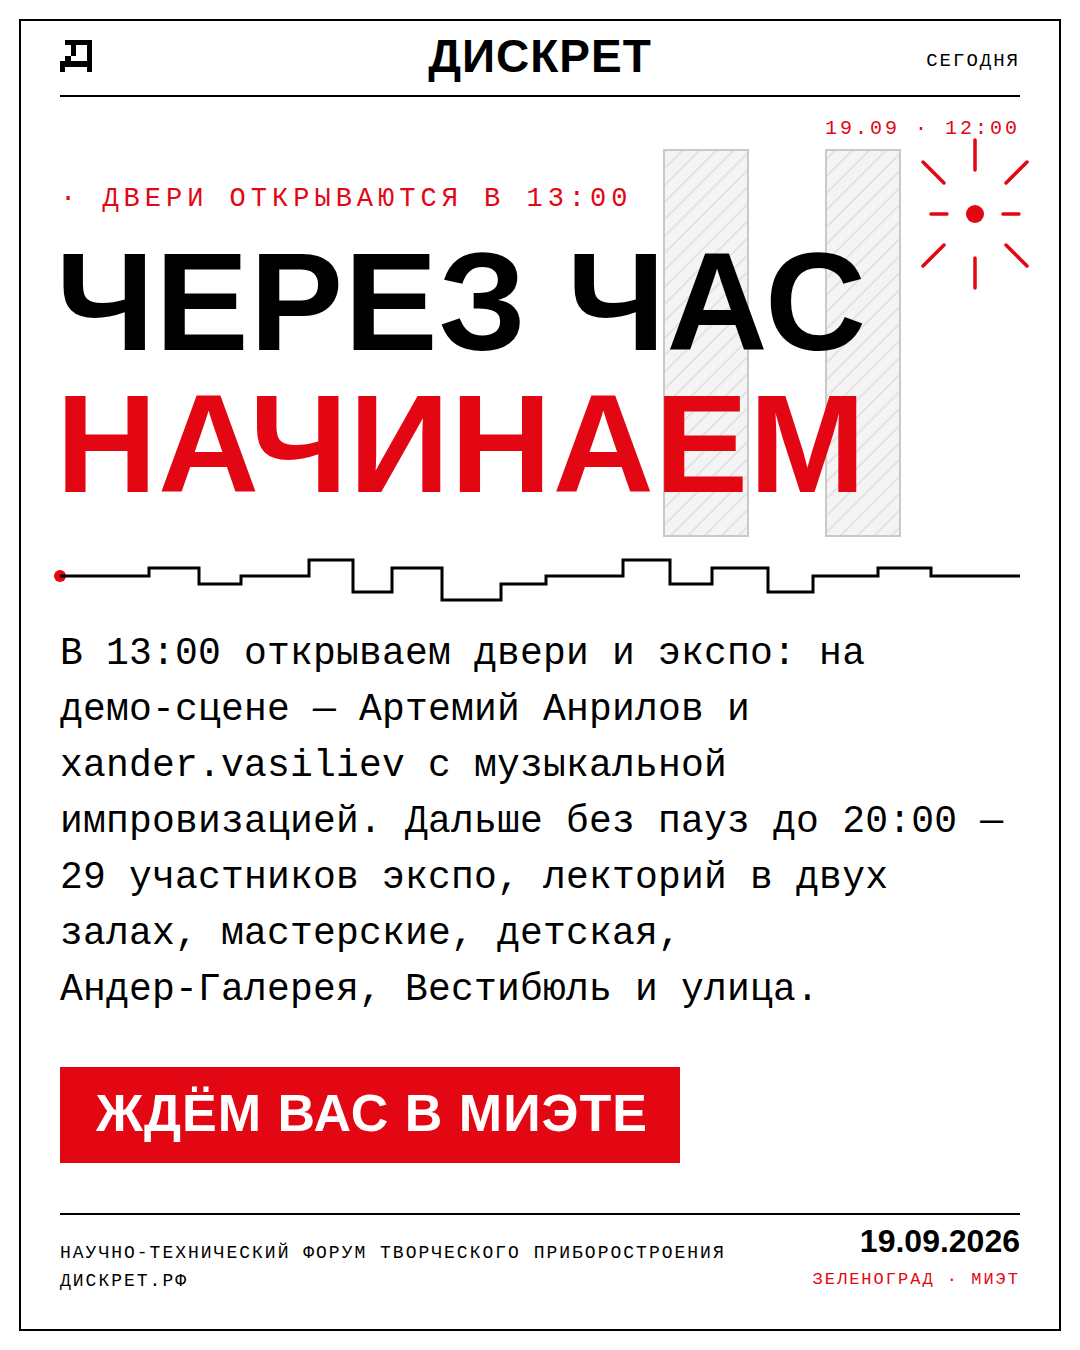
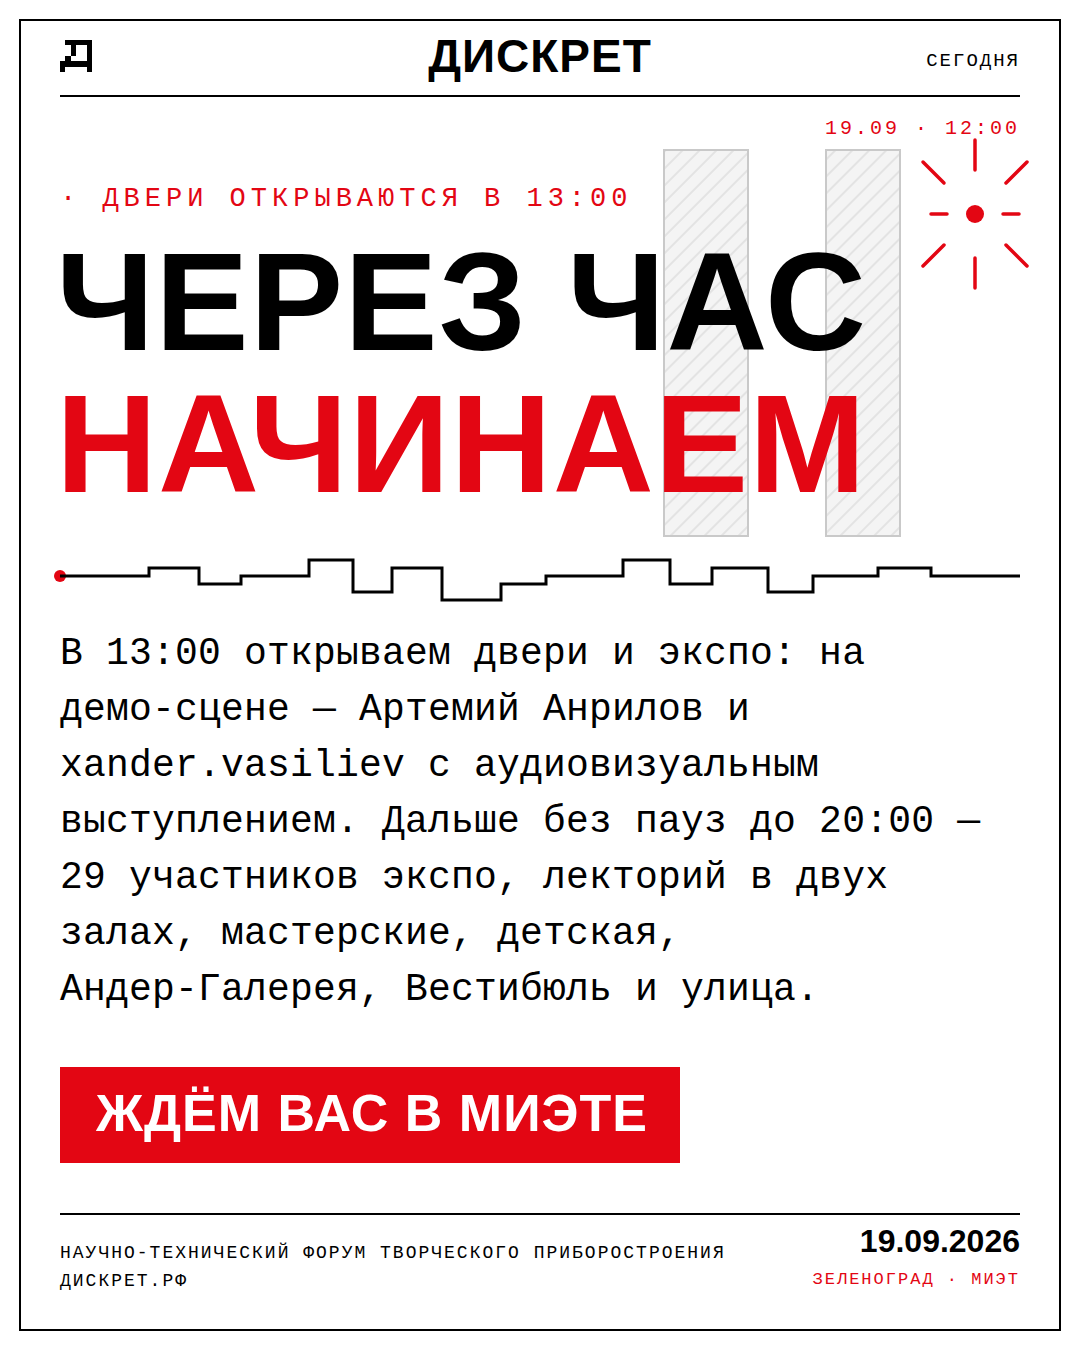
Открытие: аудиовизуальное выступление вместо импровизации
Claude-Session: https://claude.ai/code/session_01J7cakNvVwscKzgnd8yf78u

Changed region(s): [[0.0611, 0.56, 0.8861, 0.6222]]

diff --git a/branding/tools/gen_hour_card.js b/branding/tools/gen_hour_card.js
@@ -87,7 +87,7 @@ ${kick('ДВЕРИ ОТКРЫВАЮТСЯ В 13:00')}
 ${headText('ЧЕРЕЗ ЧАС', 350, '#000')}
 ${headText('НАЧИНАЕМ', 492, '#E30613')}
 ${shLine(60,1020,576,8)}
-${body('В 13:00 открываем двери и экспо: на демо-сцене — Артемий Анрилов и xander.vasiliev с музыкальной импровизацией. Дальше без пауз до 20:00 — 29 участников экспо, лекторий в двух залах, мастерские, детская, Андер-Галерея, Вестибюль и улица.', 664)}
+${body('В 13:00 открываем двери и экспо: на демо-сцене — Артемий Анрилов и xander.vasiliev с аудиовизуальным выступлением. Дальше без пауз до 20:00 — 29 участников экспо, лекторий в двух залах, мастерские, детская, Андер-Галерея, Вестибюль и улица.', 664)}
 ${plate('ЖДЁМ ВАС В МИЭТЕ', 1067)}`);
 
 fs.writeFileSync(`${OUT}/hour-01.svg`, c1);

diff --git a/branding/press/content-plan.md b/branding/press/content-plan.md
@@ -867,8 +867,8 @@ Circuit bending: превращаем сбои и глитчи готовых п
 **ЧЕРЕЗ ЧАС ОТКРЫВАЕМ ДИСКРЕТ**
 
 В 13:00 открываются двери МИЭТа — и сразу стартует программа: экспо-зону
-открывают Артемий Анрилов и xander.vasiliev музыкальной импровизацией
-на демо-сцене.
+открывают Артемий Анрилов и xander.vasiliev аудиовизуальным
+выступлением на демо-сцене.
 
 Дальше без пауз до 20:00: 29 участников экспо, лекторий в двух залах,
 мастер-классы, детская программа, Андер-Галерея, Вестибюль и улица.
